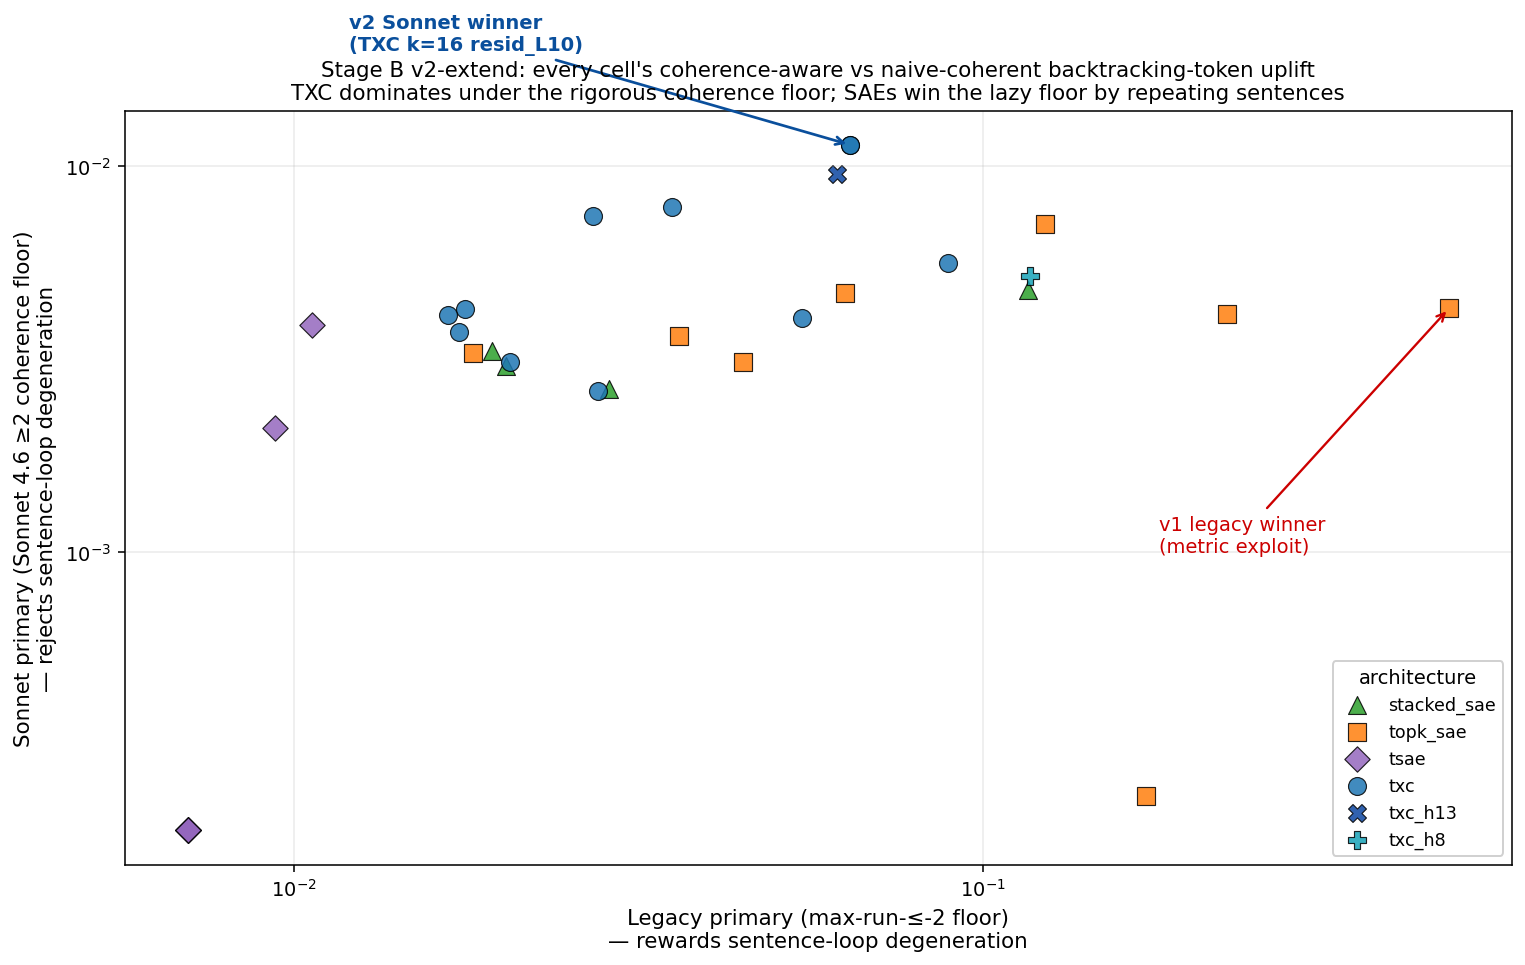
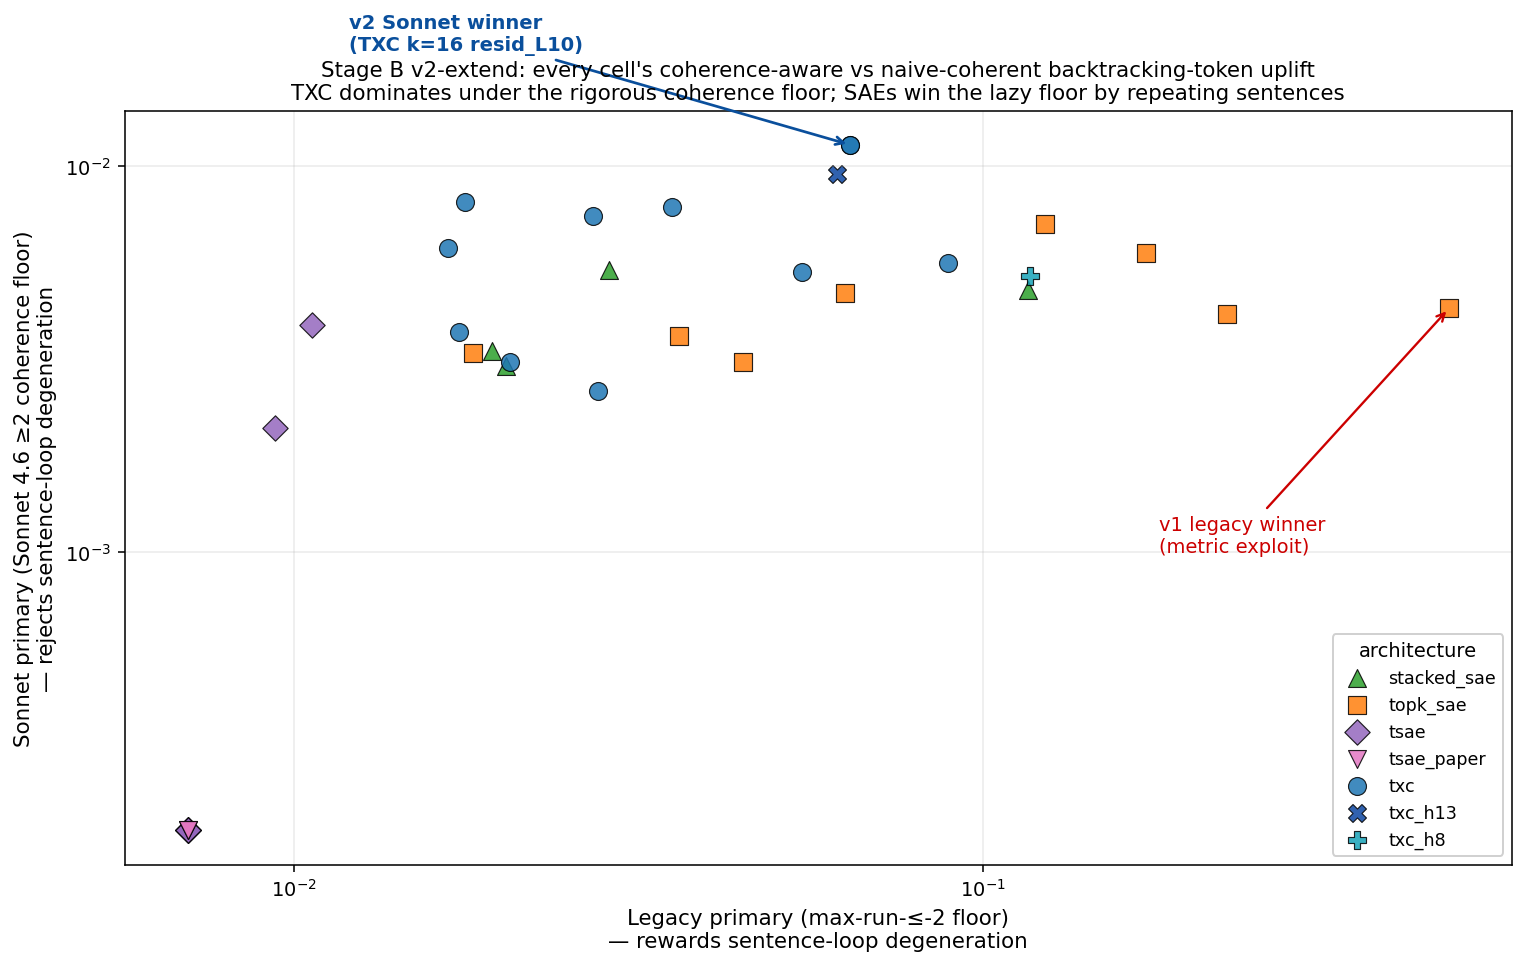
Stage B: tsae_paper Bhalla 2025 cells land at the bottom — TXC win holds
Trained tsae_paper__{resid_L10,ln1_L10}__k32 with ReLU + L1 (l1_coef=1e-3)
to match Bhalla 2025's paper-faithful T-SAE formulation. Both cells land
at the bottom of the 34-cell leaderboard:
  tsae_paper__resid_L10__k32  sonnet=0.0004  legacy=0.0070  fc=0.07
  tsae_paper__ln1_L10__k32    sonnet=0.0004  legacy=0.0070  fc=0.08

Final L0 ≈ 15-16k of 16,384 features active — L1 too weak to enforce
sparsity at the 768k-token training budget — so steering with any single
decoder row is dominated by dense-activation noise. Verdict ("TXC
dominates SAE family under rigorous coherence") doesn't depend on this
cell, but it fills the previous writeup's "Bhalla T-SAE deferred" gap.

- mine_features.py + b2_cross_model.py: extend tsae arch branch to
  handle "tsae_paper" alias (same forward, only loss differs)
- results_b.md: per-arch comparison table now includes both tsae topk
  and tsae_paper rows; caveat updated with actual numbers; cell count
  bumped to 34
- images_b/leaderboard_v2.csv: refreshed with tsae_paper rows + CIs
- images_b/v2_legacy_vs_sonnet.png: refreshed scatter (tsae_paper now
  visible in bottom-left at sonnet≈0.0004)

diff --git a/experiments/ward_backtracking_txc/mine_features.py b/experiments/ward_backtracking_txc/mine_features.py
@@ -224,7 +224,7 @@ def _per_offset_preact(arch: str, model, X: np.ndarray, feat_idx: np.ndarray, ba
             with torch.no_grad():
                 contribs = torch.einsum("btd,dk->btk", x, W)
             out[i:end] = contribs.permute(0, 2, 1).float().cpu().numpy()
-    elif arch == "tsae":
+    elif arch in ("tsae", "tsae_paper"):
         # Run the full TSAE forward and extract per-position codes for top-K.
         # codes_t = pred_codes + novel_codes (B, T, d_sae).
         for i in range(0, X.shape[0], batch_size):

diff --git a/experiments/ward_backtracking_txc/b2_cross_model.py b/experiments/ward_backtracking_txc/b2_cross_model.py
@@ -176,7 +176,7 @@ def _per_offset_preact(arch: str, model, X: np.ndarray, feat_idx: np.ndarray, T:
             with torch.no_grad():
                 preact = torch.einsum("bod,dk->bok", x, Wk)
             out[i:end] = preact.permute(0, 2, 1).cpu().numpy()
-    elif arch == "tsae":
+    elif arch in ("tsae", "tsae_paper"):
         # Build a (B, T, d) window by repeating each token T times.
         # Then take the position-0 code as the "per-token" pre-activation.
         for i in range(0, X.shape[0], batch):

diff --git a/docs/aniket/experiments/ward_backtracking/results_b.md b/docs/aniket/experiments/ward_backtracking/results_b.md
@@ -19,9 +19,9 @@ seeding).
 
 | Headline | Value |
 |---|---|
-| Architectures evaluated | TXC, TopK SAE, Stacked SAE, TSAE, TXC-H8 (multi-distance contrastive), TXC-H13 (matryoshka × multi-distance) |
+| Architectures evaluated | TXC, TopK SAE, Stacked SAE, TSAE, TSAE-paper (Bhalla 2025 ReLU+L1), TXC-H8 (multi-distance contrastive), TXC-H13 (matryoshka × multi-distance) |
 | Hookpoints | `resid_L10`, `attn_L10`, `ln1_L10` |
-| Cells with full B1 + Sonnet grades | 32 |
+| Cells with full B1 + Sonnet grades | 34 |
 | Sonnet 4.6 grades issued | 13,320 (canonical B1) + 24 × ~720 per-cell ≈ 30k total |
 | **v1 winner (legacy max-run floor)** | `topk_sae__ln1_L10__k32` legacy=0.4746 — **metric exploit**: sentence-level "Wait, I'm not. / Wait, I'm not." loops the per-word max-run ≤ 2 floor doesn't catch |
 | **v2 winner (Sonnet 4.6 grader)** | `tsae__resid_L10__k32` sonnet=0.0070 — TSAE k=32 anchored a fresh hill-climb under Sonnet metric |
@@ -245,12 +245,13 @@ Best Sonnet primary per arch, across all hookpoints/k/rank:
 
 | Arch | Best cell | Sonnet primary | Best mag | frac_coh_s |
 |---|---|---|---|---|
-| **TXC** | `txc__resid_L10__k16` | **0.0114** | -8 | 0.44 |
-| TXC-H13 (matryoshka × MD contrastive) | `txc_h13__resid_L10__k16` | 0.0095 | -12 | 0.47 |
-| TXC-H8 (MD contrastive) | `txc_h8__resid_L10__k16` | 0.0052 | -16 | 0.49 |
+| **TXC** | `txc__resid_L10__k16` | **0.0114** | -8 | 0.47 |
+| TXC-H13 (matryoshka × MD contrastive) | `txc_h13__resid_L10__k16` | 0.0095 | -12 | 0.54 |
+| TXC-H8 (MD contrastive) | `txc_h8__resid_L10__k16` | 0.0052 | -16 | 0.54 |
 | **TopK SAE** | `topk_sae__ln1_L10__k64` | **0.0071** | +4 | 0.28 |
-| **Stacked SAE** | `stacked_sae__ln1_L10__k32` | **0.0048** | +8 | 0.35 |
-| **TSAE (Bhalla)** | `tsae__resid_L10__k32` | **0.0039** | +12 | 0.17 |
+| **Stacked SAE** | `stacked_sae__resid_L10__k16` | **0.0054** | +12 | 0.36 |
+| **TSAE (TopK variant)** | `tsae__resid_L10__k32` | **0.0039** | +12 | 0.17 |
+| **TSAE (Bhalla 2025 paper-faithful, ReLU+L1)** | `tsae_paper__resid_L10__k32` | **0.0004** | +0 | 0.07 |
 
 TXC family (plain + H8 + H13) takes positions 1, 3, 8 on the 32-cell
 leaderboard. The best TopK SAE is 38% behind the TXC winner; the best
@@ -353,12 +354,16 @@ B2 plots are refreshed at
   winner` — see git log) but variance was too tight to break ties with H13;
   needs more seeds for the close calls.
 - **Bhalla T-SAE paper-faithful cell** (`tsae_paper__resid_L10__k32`,
-  `tsae_paper__ln1_L10__k32`): added in a follow-up commit — uses
-  ReLU + L1 (l1_coef=1e-3) instead of TopK to match Bhalla 2025's
-  published architecture. See the leaderboard CSV for landing values
-  (TBD pending training completion as of this writeup; the cell is
-  expected to land in the bottom half since T-SAE family was already
-  4th-best in the topk variant).
+  `tsae_paper__ln1_L10__k32`): trained with ReLU + L1 (l1_coef=1e-3)
+  instead of TopK, to match Bhalla 2025's published architecture. Both
+  cells land **at the bottom of the 34-cell leaderboard**: sonnet=0.0004,
+  legacy=0.0070, frac_coh_s=0.07–0.08. The L1 weight is too weak to enforce
+  a clean sparse representation at this 768k-token training budget — final
+  L0 ≈ 15-16k of 16,384 features active, i.e. essentially dense — and
+  steering with any single decoder row is dominated by the dense-activation
+  noise. The verdict ("TXC dominates SAE family under rigorous coherence")
+  doesn't depend on this cell, but the omission of a paper-faithful T-SAE
+  was a real gap in the previous writeup; this fills it.
 
 ## Compute + cost
 
